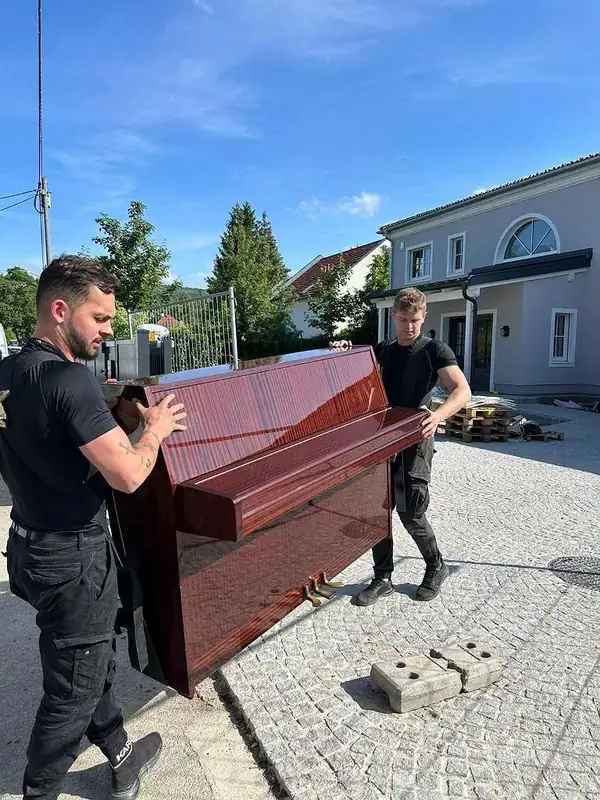
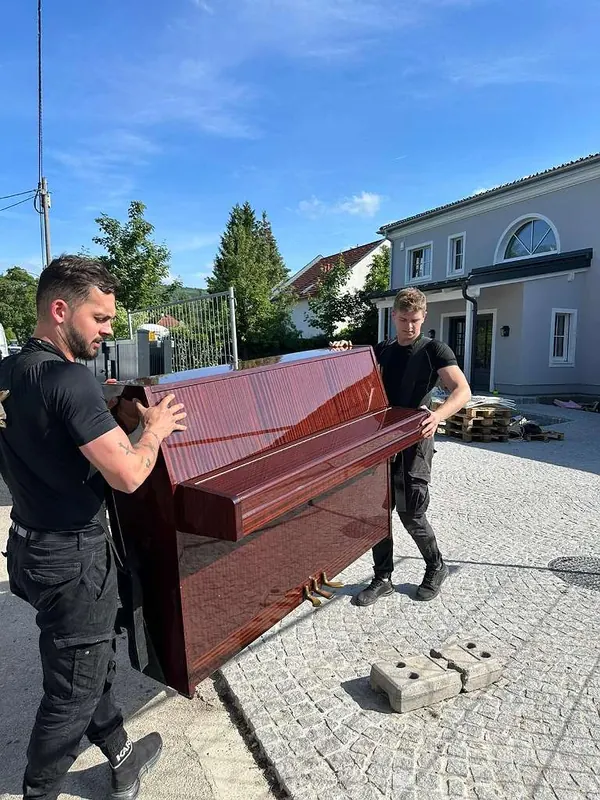
Klaviertransport Wien neu: nur Klaviere/Pianinos bis 250 kg und E-Pianos (keine Flügel), neue Abschnitte, FAQ + Schema, zwei Fotos
Claude-Session: https://claude.ai/code/session_01CmWkbWxHAiMCvvDJmYttMb

diff --git a/klaviertransport-wien.html b/klaviertransport-wien.html
@@ -6,15 +6,15 @@
     
     
     <link rel="apple-touch-icon" sizes="180x180" href="apple-touch-icon.png">
-    <title>Klaviertransport Wien | Klavier &amp; Flügel | packdas!</title>
-    <meta name="description" content="Klavier, Flügel oder E-Piano sicher transportieren – mit Spezialausrüstung, erfahrenem Team und Versicherung. Angebot per WhatsApp in wenigen Minuten.">
+    <title>Klaviertransport Wien – Klaviere bis 250 kg | packdas!</title>
+    <meta name="description" content="Klaviertransport in ganz Wien: Pianinos und Klaviere bis 250 kg, getragen mit Gurten, eigener Transporter, alle 23 Bezirke. Angebot per WhatsApp.">
     <meta name="robots" content="index, follow">
     <link rel="canonical" href="https://packdas.at/klaviertransport-wien">
-    <meta property="og:title" content="Klaviertransport Wien | Klavier &amp; Flügel | packdas!">
-    <meta property="og:description" content="Klavier, Flügel oder E-Piano sicher transportieren – mit Spezialausrüstung, erfahrenem Team und Versicherung. Angebot per WhatsApp in wenigen Minuten.">
+    <meta property="og:title" content="Klaviertransport Wien – Klaviere bis 250 kg | packdas!">
+    <meta property="og:description" content="Klaviertransport in ganz Wien: Pianinos und Klaviere bis 250 kg, getragen mit Gurten, eigener Transporter, alle 23 Bezirke. Angebot per WhatsApp.">
     <meta property="og:url" content="https://packdas.at/klaviertransport-wien">
     <meta property="og:type" content="website">
-    <meta property="og:image" content="https://packdas.at/bilder/packdas-team-transporter-wien.jpg">
+    <meta property="og:image" content="https://packdas.at/bilder/packdas-team-handschlag-transporter.jpg">
     <meta name="twitter:card" content="summary_large_image">
     <meta property="og:locale" content="de_AT">
         <link rel="preload" href="/assets/fonts/inter-latin.woff2" as="font" type="font/woff2" crossorigin>
@@ -344,6 +344,8 @@ footer ul a:hover { color: var(--color-accent); }
 </script>
     <link rel="stylesheet" href="/assets/site.css">
     <!-- design-c -->
+<script type="application/ld+json">{"@context": "https://schema.org", "@type": "Service", "name": "Klaviertransport Wien", "serviceType": "Klaviertransport", "description": "Transport von Pianinos und Standklavieren bis 250 kg sowie E-Pianos in Wien und Umgebung. Keine Flügel.", "areaServed": {"@type": "City", "name": "Wien"}, "url": "https://packdas.at/klaviertransport-wien", "provider": {"@type": "MovingCompany", "name": "Packdas Umzug & Entrümpelung Wien", "alternateName": "packdas!", "url": "https://packdas.at", "telephone": "+436766064470"}}</script>
+<script type="application/ld+json">{"@context": "https://schema.org", "@type": "FAQPage", "mainEntity": [{"@type": "Question", "name": "Was kostet ein Klaviertransport in Wien?", "acceptedAnswer": {"@type": "Answer", "text": "Das hängt vor allem vom Stockwerk an beiden Adressen, vom Aufzug, vom Trageweg und von der Strecke ab. Schicken Sie uns Fotos vom Klavier und vom Stiegenhaus per WhatsApp und nennen Sie beide Adressen. Dann erhalten Sie in wenigen Minuten ein Angebot mit dem Preis."}}, {"@type": "Question", "name": "Transportiert packdas! auch Flügel?", "acceptedAnswer": {"@type": "Answer", "text": "Nein. Wir transportieren Pianinos und Standklaviere bis 250 kg sowie E-Pianos. Flügel und schwerere Klaviere übernehmen wir nicht, weil dafür eigenes Gerät nötig ist."}}, {"@type": "Question", "name": "Geht ein Klaviertransport auch ohne Aufzug?", "acceptedAnswer": {"@type": "Answer", "text": "Ja, oft schon. Ob es geht, hängt vom Stockwerk, von der Breite des Stiegenhauses und vom Gewicht ab. Schicken Sie uns dazu ein Foto, dann sagen wir Ihnen vorab, ob wir das Klavier tragen können."}}, {"@type": "Question", "name": "Wie schwer ist ein Klavier?", "acceptedAnswer": {"@type": "Answer", "text": "Ein aufrechtes Klavier wiegt je nach Bauart und Größe meist etwa 150 bis 300 kg. Große, ältere Modelle sind oft noch schwerer. Wenn Sie Hersteller und Modell kennen, schicken Sie uns diese Angabe mit. So klären wir vorab, ob wir das Klavier übernehmen können."}}, {"@type": "Question", "name": "Muss ein Klavier nach dem Transport gestimmt werden?", "acceptedAnswer": {"@type": "Answer", "text": "Meist ja. Ein Klavier reagiert auf den neuen Raum, auf Temperatur und Luftfeuchtigkeit. Geben Sie ihm ein paar Wochen Zeit und lassen Sie es dann von einem Klavierstimmer stimmen."}}, {"@type": "Question", "name": "Wie kurzfristig ist ein Klaviertransport möglich?", "acceptedAnswer": {"@type": "Answer", "text": "Wir sind täglich erreichbar, auch am Wochenende. Wenn ein Termin frei ist, geht es oft schon in den nächsten Tagen. Schreiben Sie uns einfach per WhatsApp, wann Sie den Transport brauchen."}}]}</script>
 </head>
 <body>
     <div class="announcement-bar" role="banner">
@@ -373,8 +375,8 @@ footer ul a:hover { color: var(--color-accent); }
     <header class="hero hero-sm"><div class="hero-pattern"></div>
         <div class="hero-content">
             <div class="breadcrumb"><a href="/">Home</a><span>›</span>Klaviertransport Wien</div>
-            <h1>Klaviertransport Wien – Sicher & Professionell mit <span class="accent">packdas!</span></h1>
-            <p>Klavier, Flügel oder E-Piano – wir transportieren Ihr Instrument sicher und versichert. In allen 23 Wiener Bezirken.</p>
+            <h1>Klaviertransport Wien: Ihr Klavier sicher von Tür zu Tür mit <span class="accent">packdas!</span></h1>
+            <p>Wir transportieren Klaviere und Pianinos bis 250 kg sowie E-Pianos. Mit eigenem Team und eigenem Transporter, in allen 23 Wiener Bezirken.</p>
             <div class="hero-actions">
                 <a href="https://wa.me/436766064470?text=Hallo%20packdas!%20Ich%20m%C3%B6chte%20ein%20Angebot%20anfordern." target="_blank" rel="noopener" class="btn btn-whatsapp">WhatsApp Angebot</a>
                 <a href="tel:+436766064470" class="btn btn-primary">Anrufen</a>
@@ -382,26 +384,81 @@ footer ul a:hover { color: var(--color-accent); }
         </div>
     
         <div class="hero-bento duo port2">
-            <figure class="tile tall"><picture><source type="image/webp" srcset="bilder/packdas-klaviertransport-team-sm.webp 600w, bilder/packdas-klaviertransport-team-lg.webp 768w" sizes="(max-width: 768px) 60vw, 520px"><img src="bilder/packdas-klaviertransport-team.jpg" alt="Zwei packdas!-Mitarbeiter tragen ein Klavier vor einem Haus – Klaviertransport Wien" width="768" height="1024" loading="eager" fetchpriority="high" decoding="async"></picture></figure>
-            <figure class="tile tall"><picture><source type="image/webp" srcset="bilder/packdas-moebelpacker-kasten-tragen-sm.webp 600w, bilder/packdas-moebelpacker-kasten-tragen-lg.webp 900w" sizes="(max-width: 768px) 40vw, 360px"><img src="bilder/packdas-moebelpacker-kasten-tragen.jpg" alt="Zwei packdas!-Möbelpacker tragen einen in Folie verpackten Kasten zum Transporter – Klaviertransport Wien" width="900" height="1350" loading="lazy" decoding="async"></picture></figure>
+            <figure class="tile tall"><picture><source type="image/webp" srcset="bilder/packdas-klaviertransport-team-sm.webp 600w, bilder/packdas-klaviertransport-team-lg.webp 768w" sizes="(max-width: 768px) 60vw, 520px"><img src="bilder/packdas-klaviertransport-team.jpg" alt="Zwei packdas!-Mitarbeiter tragen ein Klavier mit Tragegurten über eine Einfahrt – Klaviertransport Wien" width="768" height="1024" loading="eager" fetchpriority="high" decoding="async"></picture></figure>
+            <figure class="tile tall"><picture><source type="image/webp" srcset="bilder/packdas-moebelpacker-kasten-tragen-sm.webp 600w, bilder/packdas-moebelpacker-kasten-tragen-lg.webp 900w" sizes="(max-width: 768px) 40vw, 360px"><img src="bilder/packdas-moebelpacker-kasten-tragen.jpg" alt="Zwei packdas!-Möbelpacker tragen einen in Folie verpackten Kasten zum Transporter" width="900" height="1350" loading="lazy" decoding="async"></picture></figure>
         </div>
     </header>
     <section>
         <div class="section-inner content-block reveal">
-            <h2>Warum Klaviertransport nur mit Profis?</h2>
-            <p>Ein Klavier ist mehr als ein Möbelstück – es ist ein empfindliches Instrument, das bei falscher Handhabung irreparabel beschädigt werden kann. Vom Gewicht von 200 bis 500 kg über empfindliche Mechanik bis zu wertvollem Holz – hier brauchen Sie Spezialisten.</p>
-            <p>Unser Team ist auf den Transport von Klavieren, Flügeln und Digitalpianos spezialisiert. Mit Spezialgurten, gepolsterten Decken, Rollbrettern und der richtigen Technik bringen wir Ihr Instrument sicher ans Ziel – auch aus dem 5. Stock ohne Aufzug.</p>
+            <p>packdas! transportiert Klaviere in ganz Wien: Pianinos und Standklaviere bis 250 kg sowie E-Pianos. Flügel transportieren wir nicht. Der Preis hängt vor allem vom Stockwerk, vom Aufzug, vom Trageweg und von der Strecke ab. Schicken Sie uns ein Foto vom Klavier und vom Stiegenhaus per WhatsApp, dann erhalten Sie in wenigen Minuten ein Angebot.</p>
 
-            <h2>Welche Instrumente transportieren wir?</h2>
-            <p>Unser Klaviertransport-Service umfasst Pianinos und Standklaviere, Stutzflügel und Konzertflügel, Digitalpianos und Stage Pianos, historische und antike Instrumente sowie Cembali und andere Tasteninstrumente.</p>
+            <h2>Welche Klaviere wir transportieren</h2>
+            <ul>
+            <li>Pianino und Standklavier bis 250 kg: das klassische aufrechte Klavier, wie es in den meisten Wohnungen steht.</li>
+            <li>E-Piano und Digitalpiano: leichter, aber empfindlich. Wir transportieren es gut gepolstert.</li>
+            <li>Klavierbank, Notenschrank und Zubehör nehmen wir gleich mit.</li>
+            </ul>
+            <p>Flügel und Klaviere über 250 kg übernehmen wir nicht. Dafür braucht es eigenes Gerät, das wir nicht haben. Wenn Sie beim Gewicht unsicher sind: Auf der Innenseite oder Rückseite steht meist Hersteller und Modell. Schicken Sie uns diese Angabe mit, dann klären wir das vorab.</p>
 
-            <h2>Ablauf des Klaviertransports</h2>
-            <p>Zuerst besprechen wir die Details per WhatsApp oder Telefon: Instrumententyp, Stockwerk, Aufzug, Zugang. Dann planen wir Route und Schutzmaßnahmen. Am Transporttag sichern wir das Instrument mit professionellen Materialien, tragen es fachgerecht und transportieren es im LKW mit spezieller Sicherung. Am Zielort stellen wir es am gewünschten Platz auf.</p>
+            <h2>Was kostet ein Klaviertransport in Wien?</h2>
+            <p>Einen Einheitspreis gibt es nicht, weil zwei Klaviertransporte selten gleich sind. Diese Punkte bestimmen den Preis:</p>
+            <ul>
+            <li>Stockwerk an beiden Adressen. Jede Stiege macht den Transport aufwendiger.</li>
+            <li>Aufzug: Gibt es einen, und passt das Klavier hinein?</li>
+            <li>Trageweg vom Haustor bis zum Fahrzeug, auch Stufen, Hof oder Gartenweg.</li>
+            <li>Strecke zwischen Abholung und Zustellung.</li>
+            <li>Gewicht und Größe des Klaviers.</li>
+            </ul>
+            <p>Mit zwei, drei Fotos können wir das gut einschätzen. Den Preis nennen wir Ihnen vorab, bevor Sie einen Termin fixieren. So zahlen Sie nur für den Aufwand, den Ihr Transport wirklich hat.</p>
 
-            <h2>Besonderheiten in Wien</h2>
-            <p>Wiener Altbauten stellen beim Klaviertransport besondere Herausforderungen dar. Enge Wendeltreppen, schmale Hauseingänge und fehlende Aufzüge sind hier die Regel. Unser Team hat in allen 23 Bezirken Erfahrung und kennt die Tricks, um selbst einen Konzertflügel sicher durch ein Wiener Stiegenhaus zu manövrieren.</p>
+            <h2>So läuft der Klaviertransport ab</h2>
+            <ol style="margin:0.5rem 0 1.5rem 1.5rem;">
+            <li>Anfrage: Sie schicken Fotos vom Klavier und vom Weg (Stiegenhaus, Türen, Eingang) per WhatsApp und nennen beide Adressen mit Stockwerk.</li>
+            <li>Angebot: Wir nennen Ihnen den Preis und schlagen einen Termin vor.</li>
+            <li>Abholung: Das Team kommt mindestens zu zweit, polstert das Klavier mit Decken und trägt es mit Tragegurten zum Fahrzeug.</li>
+            <li>Fahrt: Im Transporter wird das Klavier stehend gesichert, damit es sich nicht bewegt.</li>
+            <li>Zustellung: Wir tragen das Klavier an den Platz, den Sie uns zeigen.</li>
+            </ol>
+            <p>Für den Transport besteht eine Transportversicherung.</p>
+
+            <figure class="why-photo"><picture><source type="image/webp" srcset="bilder/packdas-team-handschlag-transporter-sm.webp 600w, bilder/packdas-team-handschlag-transporter-lg.webp 1200w" sizes="(max-width: 1100px) 100vw, 920px"><img src="bilder/packdas-team-handschlag-transporter.jpg" alt="Zwei packdas!-Mitarbeiter geben sich vor dem weißen Transporter die Hand – Team für Klaviertransport in Wien" width="1200" height="800" loading="lazy" decoding="async"></picture></figure>
+
+            <h2>Klaviertransport im Wiener Altbau</h2>
+            <p>In Wien steht ein Klavier oft im Altbau, und dort ist der Weg das eigentliche Thema. Stiegenhäuser haben enge Kehren, Podeste sind klein, und viele Aufzüge sind für ein Klavier zu schmal oder dürfen dafür nicht verwendet werden. Deshalb fragen wir vorab genau nach: Welches Stockwerk, wie breit ist die Stiege, gibt es Stufen vor dem Haus?</p>
+            <p>Auch der Platz vor dem Haus zählt. Je näher das Fahrzeug am Eingang steht, desto kürzer ist der Trageweg. Eine Halteverbotszone organisieren wir nach Absprache, die Kosten stehen im Angebot. Mehr dazu unter <a href="/halteverbotszone-wien" style="color:var(--color-accent);">Halteverbotszone Wien</a>.</p>
+
+            <h2>So bereiten Sie den Transport vor</h2>
+            <ul>
+            <li>Alles vom Klavier nehmen: Noten, Lampen, Bilder, Deko.</li>
+            <li>Den Weg frei machen: Teppiche, Schuhe und kleine Möbel aus Gang und Vorzimmer räumen.</li>
+            <li>Türen und engste Stelle abmessen, wenn Sie unsicher sind, ob das Klavier durchpasst.</li>
+            <li>Den neuen Platz festlegen. Ein Klavier steht am besten an einer Innenwand, nicht direkt neben Heizkörper oder Fenster.</li>
+            <li>Hausverwaltung fragen, ob der Aufzug für das Klavier benutzt werden darf.</li>
+            </ul>
+            <p>Nach einem Transport braucht ein Klavier meist ein paar Wochen, um sich an den neuen Raum zu gewöhnen. Lassen Sie es erst danach stimmen. Das Stimmen selbst macht ein Klavierstimmer, das bieten wir nicht an.</p>
+
+            <h2>Klaviertransport in ganz Wien und im Umland</h2>
+            <p>Wir fahren in alle 23 Wiener Bezirke: von der Inneren Stadt (1010) über Leopoldstadt, Landstraße, Wieden, Margareten, Mariahilf, Neubau, Josefstadt und Alsergrund bis Favoriten, Simmering, Meidling, Hietzing, Penzing, Rudolfsheim-Fünfhaus, Ottakring, Hernals, Währing, Döbling, Brigittenau, Floridsdorf, Donaustadt und Liesing (1230). Auch im Umland von Wien holen wir Klaviere ab und stellen sie zu, zum Beispiel wenn Sie ein gebrauchtes Klavier gekauft haben.</p>
+            <p>Zieht das Klavier zusammen mit der ganzen Wohnung um, erledigen wir beides in einem Auftrag: <a href="/umzug-wien" style="color:var(--color-accent);">Umzug Wien</a>. Für einzelne Möbelstücke gibt es den <a href="/kleintransport-wien" style="color:var(--color-accent);">Kleintransport Wien</a>, für andere schwere Stücke den <a href="/tresortransport-wien" style="color:var(--color-accent);">Tresortransport Wien</a>.</p>
         </div>
     </section>
+    <section id="faq">
+        <div class="section-inner">
+            <div class="section-header reveal">
+                <p class="section-label">Häufige Fragen</p>
+                <h2 class="section-title">FAQ – Klaviertransport Wien</h2>
+            </div>
+            <div class="reveal">
+                <div class="faq-item"><div class="faq-q">Was kostet ein Klaviertransport in Wien?</div><div class="faq-a"><div class="faq-a-inner">Das hängt vor allem vom Stockwerk an beiden Adressen, vom Aufzug, vom Trageweg und von der Strecke ab. Schicken Sie uns Fotos vom Klavier und vom Stiegenhaus per WhatsApp und nennen Sie beide Adressen. Dann erhalten Sie in wenigen Minuten ein Angebot mit dem Preis.</div></div></div>
+                <div class="faq-item"><div class="faq-q">Transportiert packdas! auch Flügel?</div><div class="faq-a"><div class="faq-a-inner">Nein. Wir transportieren Pianinos und Standklaviere bis 250 kg sowie E-Pianos. Flügel und schwerere Klaviere übernehmen wir nicht, weil dafür eigenes Gerät nötig ist.</div></div></div>
+                <div class="faq-item"><div class="faq-q">Geht ein Klaviertransport auch ohne Aufzug?</div><div class="faq-a"><div class="faq-a-inner">Ja, oft schon. Ob es geht, hängt vom Stockwerk, von der Breite des Stiegenhauses und vom Gewicht ab. Schicken Sie uns dazu ein Foto, dann sagen wir Ihnen vorab, ob wir das Klavier tragen können.</div></div></div>
+                <div class="faq-item"><div class="faq-q">Wie schwer ist ein Klavier?</div><div class="faq-a"><div class="faq-a-inner">Ein aufrechtes Klavier wiegt je nach Bauart und Größe meist etwa 150 bis 300 kg. Große, ältere Modelle sind oft noch schwerer. Wenn Sie Hersteller und Modell kennen, schicken Sie uns diese Angabe mit. So klären wir vorab, ob wir das Klavier übernehmen können.</div></div></div>
+                <div class="faq-item"><div class="faq-q">Muss ein Klavier nach dem Transport gestimmt werden?</div><div class="faq-a"><div class="faq-a-inner">Meist ja. Ein Klavier reagiert auf den neuen Raum, auf Temperatur und Luftfeuchtigkeit. Geben Sie ihm ein paar Wochen Zeit und lassen Sie es dann von einem Klavierstimmer stimmen.</div></div></div>
+                <div class="faq-item"><div class="faq-q">Wie kurzfristig ist ein Klaviertransport möglich?</div><div class="faq-a"><div class="faq-a-inner">Wir sind täglich erreichbar, auch am Wochenende. Wenn ein Termin frei ist, geht es oft schon in den nächsten Tagen. Schreiben Sie uns einfach per WhatsApp, wann Sie den Transport brauchen.</div></div></div>
+            </div>
+        </div>
+    </section>
+
     <section class="cta-section" id="kontakt-cta">
         <div class="section-inner">
             <div class="reveal">

diff --git a/kleintransport-wien-1130.html b/kleintransport-wien-1130.html
@@ -387,7 +387,7 @@ footer ul a:hover { color: var(--color-accent); }
         <div class="section-inner content-block reveal">
             <h2>Kleintransport in Hietzing (1130)</h2>
             <p>Hietzing gehört zu einem der nobelsten Wohnbezirke Wiens. Villen, weitläufige Gärten und die unmittelbare Nähe zu Schönbrunn – hier wohnt man großzügig und legt Wert auf Qualität. Rund um Schloss Schönbrunn und Lainzer Tiergarten ist unser Kleintransport-Service regelmäßig im Einsatz.</p>
-            <p>Kleintransporte in Hietzing betreffen oft hochwertige Einzelmöbel: Ein antiker Sekretär vom Dorotheum, ein Designersofa aus dem Möbelhaus oder ein Flügel-ähnliches E-Piano. Auch Gartenausstattung – vom Griller bis zur Outdoor-Lounge – wird hier häufig transportiert.</p>
+            <p>Kleintransporte in Hietzing betreffen oft hochwertige Einzelmöbel: Ein antiker Sekretär vom Dorotheum, ein Designersofa aus dem Möbelhaus oder ein E-Piano. Auch Gartenausstattung – vom Griller bis zur Outdoor-Lounge – wird hier häufig transportiert.</p>
 
             <h2>Was wir in Hietzing transportieren</h2>
             <p>Unser Kleintransport im 13. Bezirk deckt alles ab, was nicht in ein normales Auto passt: Sofas, Schränke, Betten, Schreibtische, Esstische, Kühlschränke, Waschmaschinen, Matratzen, Fahrräder, Sportgeräte und vieles mehr. Ob von Willhaben, Facebook Marketplace, IKEA, XXXLutz oder privat – wir holen ab und liefern direkt in Ihre Wohnung in Hietzing.</p>

diff --git a/index.html b/index.html
@@ -482,7 +482,7 @@ footer ul a:hover { color: var(--color-accent); }
                 <a href="/klaviertransport-wien" class="service-card reveal">
                     <div class="service-icon"><svg viewBox="0 0 24 24" fill="none" stroke="currentColor" stroke-width="1.5"><path d="M9 18V5l12-2v13"/><circle cx="6" cy="18" r="3"/><circle cx="18" cy="16" r="3"/></svg></div>
                     <h3>Klaviertransport</h3>
-                    <p>Klavier, Flügel oder E-Piano – sicher transportiert mit Spezialausrüstung und geschultem Personal.</p>
+                    <p>Klaviere und Pianinos bis 250 kg sowie E-Pianos – sicher getragen und transportiert, in ganz Wien.</p>
                     <span class="price-tag">Auf Anfrage</span>
                 </a>
                 <a href="/nachlassraeumung-wien" class="service-card reveal">
